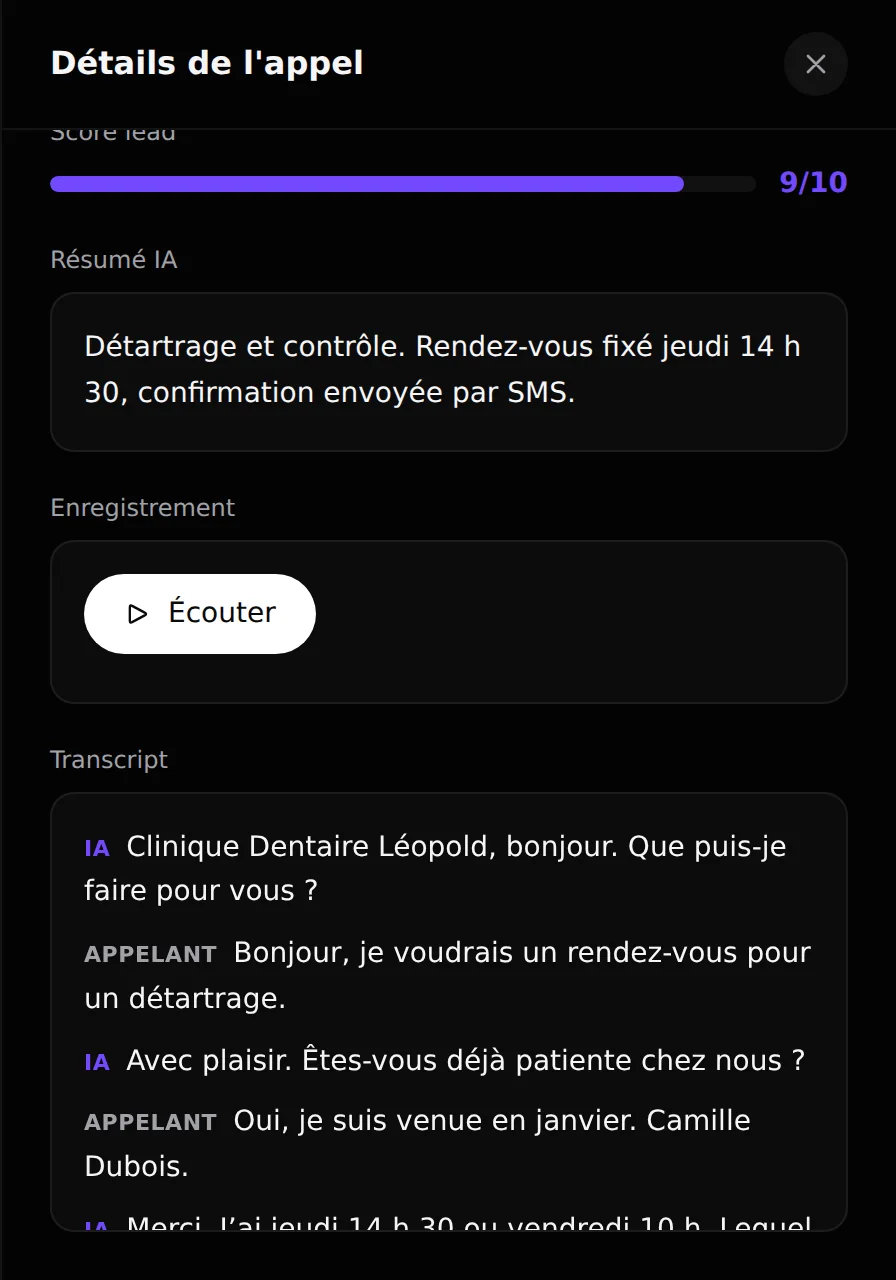
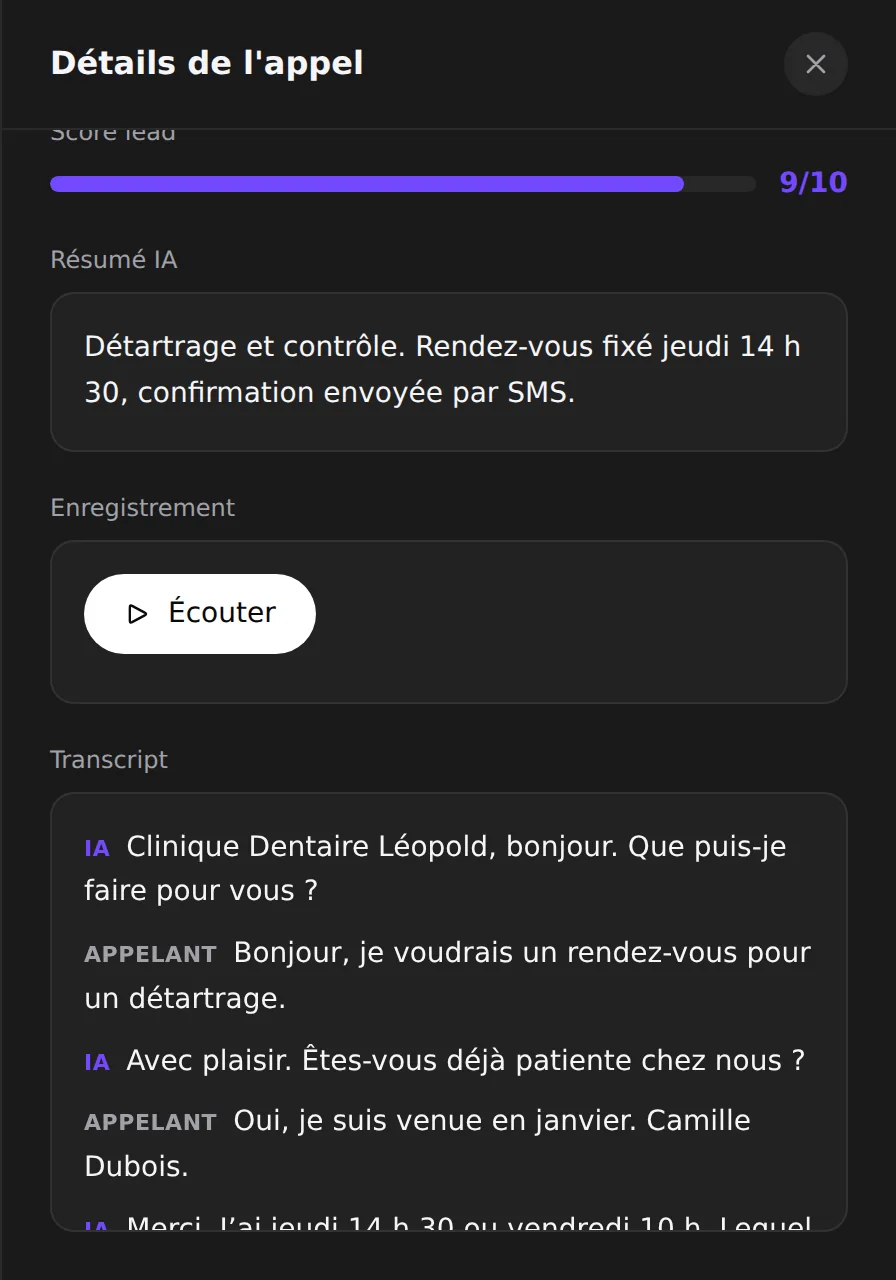
fix: le panneau « Détails de l'appel » passe du noir au gris
Le panneau valait `oklch(10% 0 0)`, soit #171717: un gris si sombre qu'il se lit
comme du noir. Deux conséquences, et c'est la seconde qui a été signalée.

Dans le portail, un panneau flottant posé sur une page à #0a0a0a ne se détachait
presque pas de ce qu'il recouvre. Sur l'accueil, la capture qui en est tirée
tombait dans une plate à #1a1a1a, et on ne voyait pas où l'une finissait et
l'autre commençait: le bloc entier se lisait comme une seule tache noire.

Il vaut désormais #1A1A1A, c'est-à-dire `--q-bg3`, le gris de surface du
produit. C'est celui qu'un panneau flottant doit porter, et il donne à la
capture le fond gris demandé. Les cartes intérieures restent en blanc à 4 %, ce
qui les fait ressortir à ~#242424 sur ce fond au lieu de se noyer.

La capture est refaite depuis le portail livré.

Claude-Session: https://claude.ai/code/session_01G5EHxGjh5dwkzJSRKAieVz

diff --git a/frontend/src/pages/client/ClientCalls.tsx b/frontend/src/pages/client/ClientCalls.tsx
@@ -484,7 +484,14 @@ export default function ClientCalls() {
               animate={{ x: 0 }}
               exit={{ x: '100%' }}
               transition={{ type: 'spring', damping: 30, stiffness: 300 }}
-              className="fixed right-0 top-0 bottom-0 w-full max-w-md bg-[oklch(10%_0_0)] border-l border-white/[0.07] shadow-2xl z-50 overflow-y-auto"
+              /* GRIS, pas noir. Le panneau valait `oklch(10% 0 0)`, soit #171717, qui
+                  se lit comme du noir: posé sur une page à #0a0a0a il ne se
+                  détachait pas, et la capture qui en est tirée pour l'accueil
+                  tombait dans une plate à #1a1a1a sans qu'on voie où l'une
+                  finissait et l'autre commençait. #1A1A1A est `--q-bg3`, le
+                  gris de surface du produit, et c'est lui qu'un panneau flottant
+                  doit porter. */
+              className="fixed right-0 top-0 bottom-0 w-full max-w-md bg-[#1A1A1A] border-l border-white/[0.07] shadow-2xl z-50 overflow-y-auto"
               role="dialog"
               aria-modal="true"
               aria-label="Détails de l'appel"
@@ -493,7 +500,7 @@ export default function ClientCalls() {
                   restants laissaient lire des mots fantômes derrière le titre. Un flou
                   ne rattrape pas ça, il les rend seulement illisibles au lieu de les
                   cacher. Le fond est celui du panneau, donc rien ne se voit du raccord. */}
-              <div className="sticky top-0 z-10 bg-[oklch(10%_0_0)] border-b border-white/[0.07] px-6 py-4 flex items-center justify-between">
+              <div className="sticky top-0 z-10 bg-[#1A1A1A] border-b border-white/[0.07] px-6 py-4 flex items-center justify-between">
                 <h2 className="text-base font-semibold text-[#F5F5F7]">Détails de l'appel</h2>
                 <button
                   type="button"
